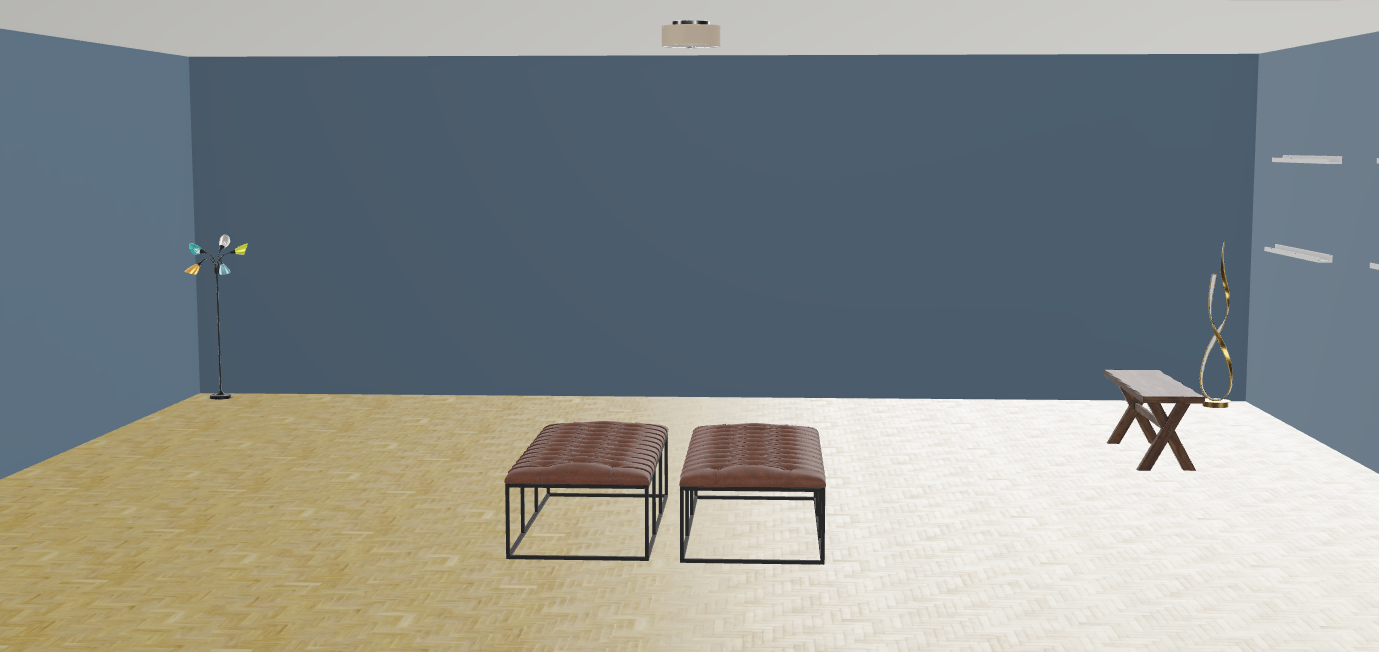
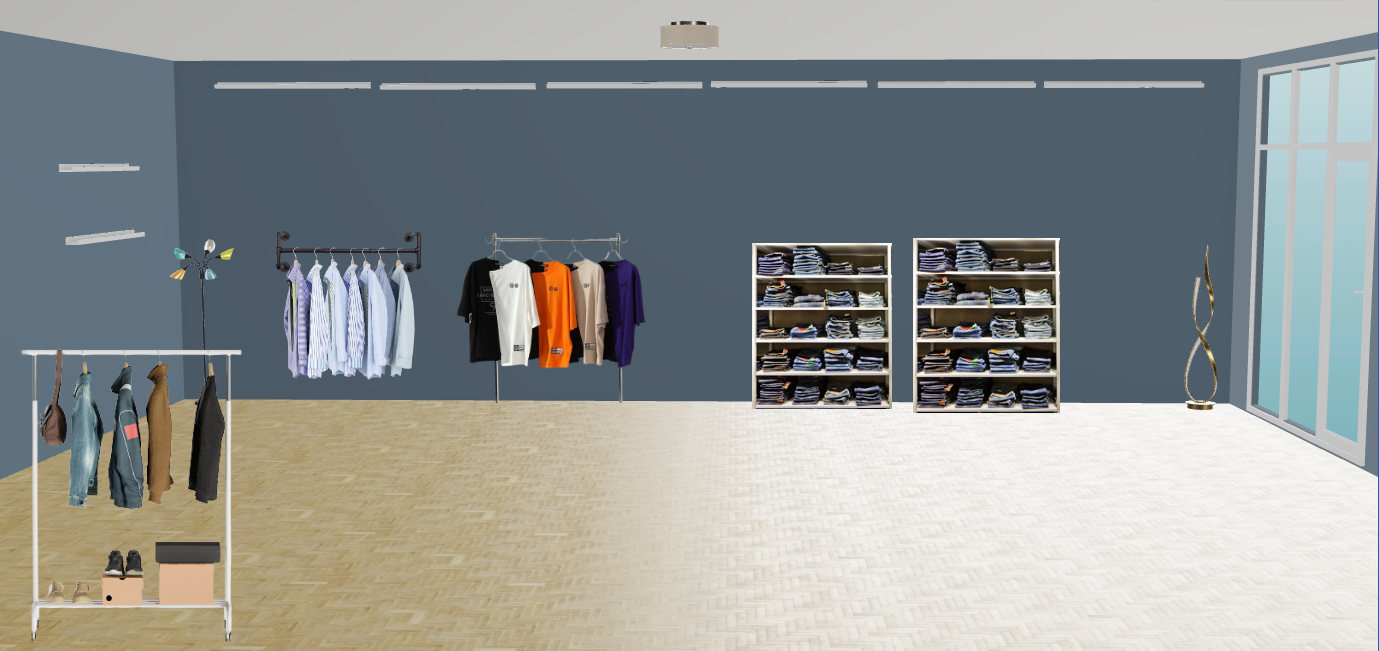
updated background + character init

diff --git a/public/shop.js b/public/shop.js
@@ -2,6 +2,8 @@ all_brands_list = []
 all_cats_list = []
 
 $($(".cont_2")[0]).hide();
+let move_forward = false;
+let move_back = false;
 
 async function get_brands_categories(){
     await $.get('/api/all_brands', (data)=>{
@@ -66,20 +68,16 @@ $("#create-btn").click((e)=>{
             categories.push($(cat[i]).data().cat);
         }
     }
-    console.log(brands, categories);
+    // console.log(brands, categories);
+
 
     $.post('/api/vs/products', {brands, categories}, (data, status)=>{
-        console.log(data);
-        
-         // canvas operations
-        // let c = document.getElementById("outer-shop");
-        // let ctx = c.getContext("2d");
-        // let img = document.getElementById("scream");
-        // ctx.drawImage(img);
+        // console.log(data);
         
         let no_of_pieces = Math.min(data.length, 8);
         for(let i=0; i<no_of_pieces; i++){
             // plain javascript here
+            // dynamically appending images
             let img = document.createElement('img');
             img.classList.add("product-img");
             img.dataset.prod_id = data[i]['id'];
@@ -92,6 +90,7 @@ $("#create-btn").click((e)=>{
             }
             document.getElementById('id111').appendChild(img);
 
+            // product modal
             img.addEventListener('click', (e)=>{
                 let idx = e.target.dataset.index;
                 let imgsrc = data[idx]['picture1'];
@@ -113,24 +112,93 @@ $("#create-btn").click((e)=>{
                 // console.log("Modal to be launched . . .");
             })
         }
-       
-        // for(let i=1; i<=no_of_pieces; i++){
-        //     let img = new Image();   
-            
-        //     img.addEventListener('load', function() {
-        //         // execute drawImage statements here
-        //         ctx.drawImage(img, xinit, yinit, 30, 30);
-        //         xinit += inc;
-        //         if(inc==20) inc=40;
-        //         else inc=20;
-        //     }, false);
-
-        //     img.src = data[i-1]['picture1'];
-        //     console.log(img.src);
-        // }
+        
     })
 
     $($(".cont_1")[0]).hide();
     $($(".cont_2")[0]).show();
 
+    // canvas operations
+    // let c = document.getElementById("outer-shop");
+    // let ctx = c.getContext("2d");
+    // let img = document.getElementById("scream");
+    // ctx.drawImage(img);
+
+    // // canvas operations
+    // let c = document.getElementById("canvas1");
+    // let ctx = c.getContext("2d");
+    // ctx.imageSmoothingEnabled = false;
+    // let img = new Image();
+    // img.src = './backgounds/char1_.png';
+    // img.addEventListener('load', function() {
+    //     ctx.drawImage(img, 60, 60, 30, 50);
+    // }, false);  
+    
+    $('body').keydown((e)=>{
+        // console.log("Investigating");
+        if(e.keyCode==39){
+            // right arrow key
+            move_forward = true;
+            move_back = false;
+            console.log("Right arrow key pressed...");
+        }
+        else if(e.keyCode==37){
+            // left arrow key
+            move_back = true;
+            move_forward = false;
+            console.log("Left arrow key pressed...");
+        }
+    })
+    $('body').keyup((e)=>{
+        if(e.keyCode==39){
+            // right arrow key
+            move_forward = false;
+        }
+        else if(e.keyCode==37){
+            // left arrow key
+            move_back = false;
+        }
+    })
+
+    movement();
 })
+
+let rpics = ['./backgounds/char3.png','./backgounds/char3.png','./backgounds/char4.png','./backgounds/char4.png','./backgounds/char5.png','./backgounds/char5.png',
+'./backgounds/char3.png','./backgounds/char3.png','./backgounds/char2.png','./backgounds/char2.png'];
+let lpics = ['./backgounds/char6.png','./backgounds/char6.png','./backgounds/char7.png','./backgounds/char7.png',
+'./backgounds/char8.png','./backgounds/char8.png','./backgounds/char9.png','./backgounds/char9.png'];
+
+let rmi=0;
+let lmi=0;
+function movement() {
+    //character movement (very primitive)
+    if(move_forward==true){
+        let pos = $("#cust_avatar").position();
+        let str = (pos['left']+10);
+        if(str<=(window.innerWidth*(5/8))){
+            str = String(str)+"px";
+            $("#cust_avatar").css({'left': str});
+            console.log("Moving right...");
+
+            rmi = (rmi+1)%rpics.length;
+            $("#cust_avatar").attr('src', rpics[rmi]);
+        }
+    }
+    if(move_back==true){
+        let pos = $("#cust_avatar").position();
+        let str = (pos['left']-10);
+        if(str>=0){
+            str = String(str)+"px";
+            $("#cust_avatar").css({'left': str});
+
+            lmi = (lmi+1)%lpics.length;
+            $("#cust_avatar").attr('src', lpics[lmi]);
+        }   
+    }
+    
+    // requestAnimationFrame(movement);
+}
+
+setInterval(() => {
+    movement();
+}, 100);

diff --git a/public/shop.html b/public/shop.html
@@ -73,8 +73,9 @@
 
 
     <div class="container-fluid cont_2" style="padding-top: 6%; padding-left: 12%;" id="outer-shop">
-      <div class="container">
+      <div class="container main-cont">
         <div class="row">
+          <!-- <canvas style="position: absolute; top: 15vh; left: 0;" id="canvas1"></canvas> -->
           <div class="col-12" id="id111">
               <!-- modal for product details -->
               <div class="modal fade" id="productModal" tabindex="-1" aria-labelledby="productModalCenterTitle" aria-hidden="true">
@@ -109,6 +110,11 @@
 
           </div>
           
+        </div>
+        <div class="row">
+          <div class="col-12" id="id222">
+            <img src="./backgounds/char4.png" alt="" id="cust_avatar">
+          </div>
         </div>
       </div>
         <!-- <canvas id="outer-shop"></canvas> -->

diff --git a/public/shop.css b/public/shop.css
@@ -1,3 +1,7 @@
+/* body {
+    position: relative;
+} */
+
 .navbar:after {
     width: 0%;
 }
@@ -17,7 +21,7 @@
     /* transform: rotate(20deg); */
     animation-name: ani1;
     animation-duration: 1s;
-    animation-iteration-count: infinite;
+    /* animation-iteration-count: infinite; */
 }
 
 @keyframes ani1 {
@@ -52,3 +56,19 @@
 /* discount coupons */
 /* adds/ recommended pieces */
 /* fashion icon & label house facts/ fashion trends */
+
+@keyframes ani2 {
+    100% {
+        transform: translateX(250px);
+    }
+}
+
+.main-cont {
+    padding-top: 1%;
+}
+
+#cust_avatar{
+    height: 270px;
+    position: absolute;
+    /* left: 0; */
+}
